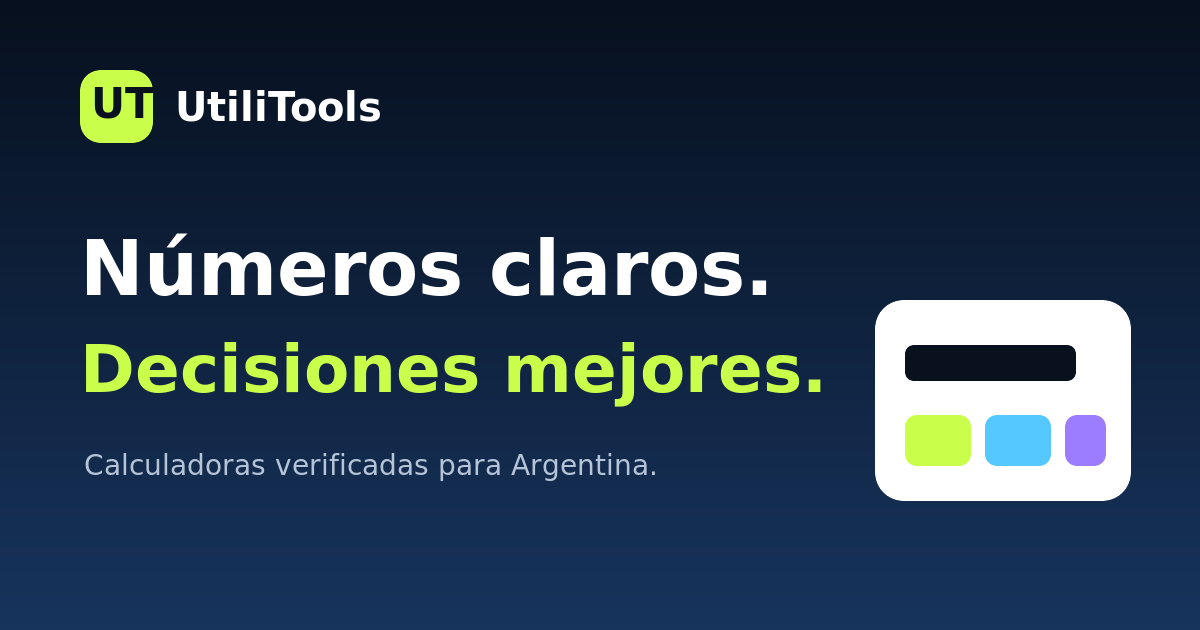
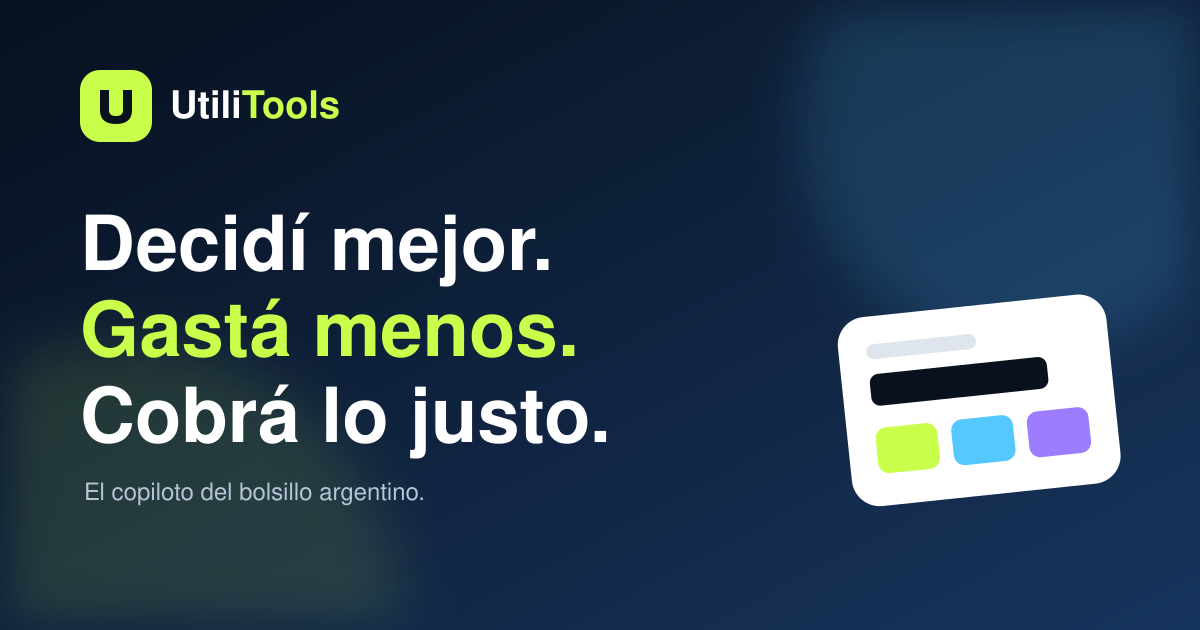
Reposition UtiliTools around everyday money decisions

diff --git a/public/assets/styles.css b/public/assets/styles.css
@@ -95,6 +95,22 @@ button, a { -webkit-tap-highlight-color: transparent; }
 .section-heading h2, .impact-section h2, .return-panel h2 { max-width: 700px; margin: 8px 0 0; font-size: clamp(2rem, 4vw, 3.5rem); line-height: 1.05; letter-spacing: -.055em; }
 .text-link { color: var(--ink); font-weight: 850; text-decoration: none; white-space: nowrap; }
 .text-link span { color: #438700; }
+.focus-grid { display: grid; grid-template-columns: repeat(3, 1fr); gap: 18px; }
+.focus-card { position: relative; min-height: 270px; display: flex; flex-direction: column; overflow: hidden; padding: 28px; border: 1px solid var(--line); border-radius: 24px; background: #fff; text-decoration: none; box-shadow: 0 8px 30px rgba(9,17,31,.04); transition: transform .25s ease, box-shadow .25s ease; }
+.focus-card::after { content: ""; position: absolute; right: -58px; bottom: -72px; width: 180px; height: 180px; border: 32px solid var(--focus-accent); border-radius: 50%; opacity: .24; }
+.focus-card:hover { transform: translateY(-6px); box-shadow: var(--shadow); }
+.focus-ahorrar { --focus-accent: var(--orange); }.focus-emprender { --focus-accent: var(--lime-dark); }.focus-trabajar { --focus-accent: var(--sky); }
+.focus-icon { width: 48px; height: 48px; display: grid; place-items: center; flex: none; border-radius: 15px; background: var(--focus-accent, var(--lime)); color: var(--ink); font-size: 1.15rem; font-weight: 950; }
+.focus-card small, .focus-section header small { margin-top: 24px; color: var(--muted); font-size: .68rem; font-weight: 900; letter-spacing: .11em; text-transform: uppercase; }
+.focus-card h3 { max-width: 280px; margin: 7px 0 10px; font-size: 1.65rem; line-height: 1.05; letter-spacing: -.045em; }
+.focus-card p { max-width: 290px; margin: 0; color: var(--muted); font-size: .88rem; }
+.focus-card b { margin-top: auto; padding-top: 24px; font-size: .82rem; }.focus-card b span { color: #4d8e09; }
+.focus-sections { display: grid; gap: 76px; }
+.focus-section { scroll-margin-top: 104px; }
+.focus-section > header { display: flex; align-items: center; gap: 18px; margin-bottom: 24px; }
+.focus-section > header small { display: block; margin-top: 0; }
+.focus-section > header h2 { margin: 2px 0; font-size: clamp(2rem, 4vw, 3rem); line-height: 1.05; letter-spacing: -.05em; }
+.focus-section > header p { margin: 0; color: var(--muted); }
 .quick-search { max-width: 740px; margin-bottom: 28px; }
 .quick-search > label { display: block; margin-bottom: .5rem; font-size: .86rem; font-weight: 850; }
 .quick-search > div { display: flex; align-items: center; gap: .8rem; padding: 0 18px; background: #fff; border: 1px solid var(--line); border-radius: 15px; box-shadow: 0 10px 32px rgba(9,17,31,.05); }
@@ -125,7 +141,7 @@ button, a { -webkit-tap-highlight-color: transparent; }
 .impact-list h3 { margin: 0; font-size: 1.15rem; }
 .impact-list p { margin: 4px 0 0; color: #aeb9c9; font-size: .88rem; }
 
-.guide-grid { display: grid; grid-template-columns: repeat(3, 1fr); gap: 20px; }
+.guide-grid { display: grid; grid-template-columns: repeat(auto-fit, minmax(250px, 1fr)); gap: 20px; }
 .guide-card { overflow: hidden; background: #fff; border: 1px solid var(--line); border-radius: 22px; }
 .guide-visual { min-height: 190px; display: flex; flex-direction: column; justify-content: space-between; padding: 24px; background: linear-gradient(135deg, #0c172b, #1e3150); color: #fff; position: relative; overflow: hidden; }
 .guide-visual::after { content: ""; position: absolute; width: 220px; height: 220px; right: -70px; bottom: -130px; border-radius: 50%; border: 30px solid var(--lime); opacity: .85; }
@@ -176,6 +192,7 @@ button, a { -webkit-tap-highlight-color: transparent; }
 .reset-button { border: 0; background: transparent; color: #6b7788; font-size: .75rem; font-weight: 800; cursor: pointer; text-decoration: underline; }
 .form-grid { display: grid; grid-template-columns: 1fr 1fr; gap: 18px; }
 .field { min-width: 0; }
+.field-wide { grid-column: 1 / -1; }
 .field label { display: block; margin-bottom: 7px; font-size: .78rem; font-weight: 850; }
 .field small { display: block; margin-top: 5px; color: #5f6b7b; font-size: .67rem; line-height: 1.35; }
 .input-shell, .field select { width: 100%; min-height: 50px; border: 1px solid #cfd7e2; border-radius: 12px; background: #fbfcfd; transition: border-color .2s, box-shadow .2s; }
@@ -287,6 +304,7 @@ button, a { -webkit-tap-highlight-color: transparent; }
 
 @media (max-width: 980px) {
   .hero-grid, .impact-grid, .tool-hero-grid, .calculator-section, .guide-layout, .contact-layout { grid-template-columns: 1fr; }
+  .focus-grid { grid-template-columns: 1fr 1fr; }.focus-card:last-child { grid-column: 1 / -1; }
   .hero-grid { gap: 54px; }.hero-demo { max-width: 620px; }.tool-grid, .guide-grid { grid-template-columns: 1fr 1fr; }.tool-hero-grid { gap: 30px; }.calculator-section { align-items: initial; }.result-card { min-height: 500px; }.sources-section { grid-template-columns: 1fr; gap: 24px; }.guide-layout { gap: 30px; }.sticky-card { position: static; }.contact-layout { gap: 30px; }
 }
 
@@ -294,7 +312,7 @@ button, a { -webkit-tap-highlight-color: transparent; }
   .nav-toggle { display: block; }.main-nav { position: absolute; top: 74px; left: 0; right: 0; display: none; flex-direction: column; align-items: stretch; gap: 0; padding: 10px 18px 18px; background: var(--ink); border-bottom: 1px solid rgba(255,255,255,.1); }.main-nav.open { display: flex; }.main-nav a { padding: 12px; }.main-nav .nav-cta { margin-top: 8px; text-align: center; }
   .hero { padding-top: 64px; }.hero h1 { font-size: clamp(3.2rem, 16vw, 5rem); }.hero-grid { gap: 44px; }.hero-demo { transform: none; }.hero-demo::before { display: none; }
   .trust-strip { grid-template-columns: 1fr 1fr; margin-top: -16px; }.trust-strip span { border-bottom: 1px solid var(--line); }.trust-strip span:nth-child(2) { border-right: 0; }
-  .section { padding-block: 70px; }.section-heading { align-items: start; flex-direction: column; gap: 12px; }.tool-grid, .guide-grid { grid-template-columns: 1fr; }.tool-card { min-height: 270px; }.impact-grid { gap: 40px; }.return-panel { grid-template-columns: 1fr; padding: 30px; gap: 24px; }.page-hero { padding-top: 48px; }.page-hero h1, .tool-hero h1, .guide-hero h1 { font-size: clamp(2.7rem, 13vw, 4.2rem); }
+  .section { padding-block: 70px; }.section-heading { align-items: start; flex-direction: column; gap: 12px; }.focus-grid, .tool-grid, .guide-grid { grid-template-columns: 1fr; }.focus-card:last-child { grid-column: auto; }.focus-card, .tool-card { min-height: 270px; }.focus-section > header { align-items: flex-start; }.impact-grid { gap: 40px; }.return-panel { grid-template-columns: 1fr; padding: 30px; gap: 24px; }.page-hero { padding-top: 48px; }.page-hero h1, .tool-hero h1, .guide-hero h1 { font-size: clamp(2.7rem, 13vw, 4.2rem); }
   .form-grid { grid-template-columns: 1fr; }.calculator-card { padding: 22px; }.result-placeholder, .result-live { padding: 26px; }.formula-grid { grid-template-columns: 1fr; gap: 20px; }.sources-section { padding: 26px; }.related-grid { grid-template-columns: 1fr; }.guide-cover-art { min-height: 390px; padding: 30px; }.guide-cover-art > strong { font-size: 2.4rem; }.checklist ul { grid-template-columns: 1fr; }.method-cards { grid-template-columns: 1fr; }.footer-shell { grid-template-columns: 1fr 1fr; gap: 36px; }.footer-brand { grid-column: 1 / -1; }.footer-bottom { flex-direction: column; }.consent-banner { grid-template-columns: 1fr; }.consent-actions { justify-content: stretch; }.consent-actions .button { flex: 1; }
 }
 

diff --git a/public/assets/app.js b/public/assets/app.js
@@ -5,7 +5,7 @@ import {
   calculateAguinaldo,
   calculateBreakEven,
   calculateRoi,
-  calculateDiscounts,
+  calculateSmartBuy,
   calculateCompoundInterest,
   calculate3dPrint,
   calculateMonotributo
@@ -25,7 +25,7 @@ const TOOL_INDEX = {
   aguinaldo: ["Aguinaldo", "/herramientas/aguinaldo"],
   "punto-equilibrio": ["Punto de equilibrio", "/herramientas/punto-equilibrio"],
   "roi-roas": ["ROI y ROAS", "/herramientas/roi-roas"],
-  descuentos: ["Descuentos", "/herramientas/descuentos"],
+  descuentos: ["Compra inteligente", "/herramientas/descuentos"],
   "interes-compuesto": ["Interés compuesto", "/herramientas/interes-compuesto"],
   "costo-impresion-3d": ["Costo impresión 3D", "/herramientas/costo-impresion-3d"]
 };
@@ -76,11 +76,30 @@ const handlers = {
     const shareText = `La campaña deja ${money(result.profit)}, ROI ${percent(result.roiPct)}${result.roas ? ` y ROAS ${decimal(result.roas)}×` : ""}. Calculado en UtiliTools.`;
     return resultView({ label: "Ganancia atribuible", value: money(result.profit), subtitle: result.profit >= 0 ? "Ingresos menos todos los costos cargados." : "Los costos cargados superan los ingresos.", metrics: [metric("ROI", percent(result.roiPct), true), ...(result.roas ? [metric("ROAS", `${decimal(result.roas)}×`)] : []), metric("Costos totales", money(result.totalCosts)), metric("Ingresos para equilibrio", money(result.breakEvenRevenue))], note: "La calidad del resultado depende de que ingresos y costos correspondan al mismo período y criterio de atribución.", shareText });
   },
-  discounts: values => {
-    const result = calculateDiscounts(values);
-    const recovery = Number.isFinite(result.recoveryIncreasePct) ? percent(result.recoveryIncreasePct) : "No recuperable";
-    const shareText = `Precio final ${money(result.finalPrice)}, ahorro efectivo ${percent(result.effectiveDiscountPct)}. Calculado en UtiliTools.`;
-    return resultView({ label: "Precio final", value: money(result.finalPrice), subtitle: "Los descuentos se aplicaron de forma sucesiva.", metrics: [metric("Ahorro", money(result.saved), true), metric("Descuento efectivo", percent(result.effectiveDiscountPct)), metric("Aumento para recuperar", recovery)], shareText });
+  "smart-buy": values => {
+    const result = calculateSmartBuy(values);
+    const headline = result.winner === "tie" ? "Cuestan prácticamente lo mismo" : `Conviene la opción ${result.winner}`;
+    const subtitle = result.winner === "tie"
+      ? `La diferencia es menor a un centavo ${result.referenceLabel}.`
+      : `Es ${percent(result.savingsPct)} más barata al comparar ${result.referenceLabel}.`;
+    const shareText = result.winner === "tie"
+      ? `Las dos ofertas cuestan prácticamente lo mismo ${result.referenceLabel}: A ${money(result.optionA.referencePrice)} y B ${money(result.optionB.referencePrice)}. Comparado en UtiliTools.`
+      : `Conviene la opción ${result.winner}: ahorra ${percent(result.savingsPct)} al comparar ${result.referenceLabel}. A cuesta ${money(result.optionA.referencePrice)} y B ${money(result.optionB.referencePrice)}. Comparado en UtiliTools.`;
+    return resultView({
+      label: "Mejor relación precio-cantidad",
+      value: headline,
+      subtitle,
+      metrics: [
+        metric(`Opción A ${result.referenceLabel}`, money(result.optionA.referencePrice), result.winner === "A"),
+        metric(`Opción B ${result.referenceLabel}`, money(result.optionB.referencePrice), result.winner === "B"),
+        metric("Desembolso promoción A", money(result.optionA.bundlePrice)),
+        metric("Desembolso promoción B", money(result.optionB.bundlePrice)),
+        metric("Descuento efectivo A", percent(result.optionA.effectiveDiscountPct)),
+        metric("Descuento efectivo B", percent(result.optionB.effectiveDiscountPct))
+      ],
+      note: "El menor precio comparable no contempla vencimiento, desperdicio, calidad ni cuánto efectivo necesitás desembolsar.",
+      shareText
+    });
   },
   "compound-interest": values => {
     const result = calculateCompoundInterest(values);
@@ -126,12 +145,23 @@ function restoreForm(form) {
   } catch { /* Ignore invalid local data. */ }
 }
 
+function updateConditionalFields(form) {
+  form.querySelectorAll("[data-show-when]").forEach(container => {
+    const [fieldName, values = ""] = container.dataset.showWhen.split(":");
+    const controller = form.elements.namedItem(fieldName);
+    const visibleValues = values.split(",");
+    container.hidden = !controller || !visibleValues.includes(controller.value);
+  });
+}
+
 function track(eventName, params = {}) {
   if (localStorage.getItem("ut_consent") === "analytics" && typeof window.gtag === "function") window.gtag("event", eventName, params);
 }
 
 document.querySelectorAll("form[data-calculator]").forEach(form => {
   restoreForm(form);
+  updateConditionalFields(form);
+  form.addEventListener("change", () => updateConditionalFields(form));
   form.addEventListener("submit", event => {
     event.preventDefault();
     const error = form.querySelector("[data-form-error]");
@@ -158,6 +188,7 @@ document.querySelectorAll("[data-reset-form]").forEach(button => button.addEvent
   const form = document.querySelector("form[data-calculator]");
   if (!form) return;
   form.reset();
+  updateConditionalFields(form);
   localStorage.removeItem(`ut_form_${form.dataset.toolSlug}`);
   const output = document.querySelector("[data-result-output]");
   const placeholder = document.querySelector(".result-placeholder");
@@ -229,6 +260,10 @@ if (search) search.addEventListener("input", () => {
     const match = !query || card.dataset.searchText.includes(query);
     card.hidden = !match;
     if (match) visible += 1;
+  });
+  document.querySelectorAll("[data-focus-group]").forEach(group => {
+    const cards = [...group.querySelectorAll("[data-search-card]")];
+    group.hidden = cards.length > 0 && cards.every(card => card.hidden);
   });
   const empty = document.querySelector("[data-search-empty]");
   if (empty) empty.hidden = visible > 0;

diff --git a/README.md b/README.md
@@ -1,10 +1,12 @@
 # UtiliTools v2
 
-Reconstrucción editorial y técnica de [utilitools.com.ar](https://www.utilitools.com.ar/) orientada a utilidad real, AdSense y crecimiento orgánico sostenible.
+Reconstrucción editorial y técnica de [utilitools.com.ar](https://www.utilitools.com.ar/) orientada a utilidad real, AdSense y crecimiento orgánico sostenible. El posicionamiento vigente es **“el copiloto del bolsillo argentino”**: decidir mejor antes de comprar, pagar, cobrar o vender.
 
 ## Principios
 
 - Diez herramientas mantenibles en lugar de decenas de páginas superficiales.
+- Tres territorios conectados: Ahorrar, Emprender y Trabajar.
+- Compra inteligente como puerta de entrada masiva: compara 2x1, 3x2, segunda unidad, descuentos y tamaños distintos.
 - Fórmula, ejemplo, límites, fuentes y fecha de revisión en cada herramienta.
 - Cálculos en el navegador; los valores no se envían al servidor.
 - Analytics bajo consentimiento y AdSense desactivado hasta obtener aprobación.
